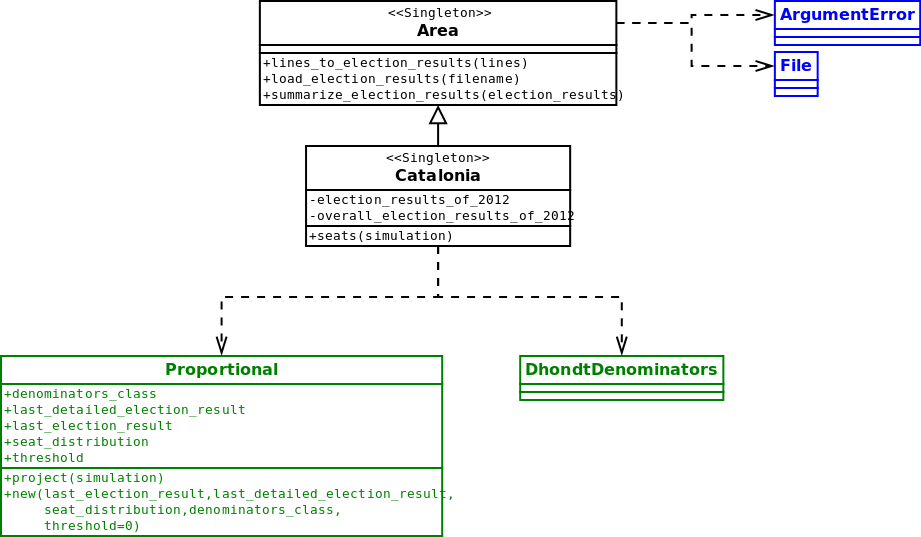
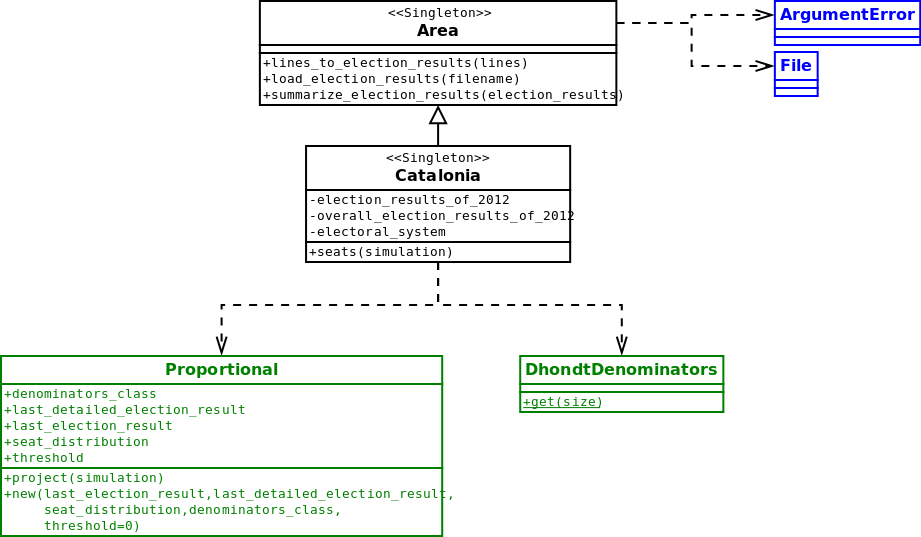
Added threshold to Proportional

Changed region(s): [[0.3344, 0.4171, 0.6384, 0.5065], [0.5472, 0.7449, 0.7904, 0.7747]]

diff --git a/spec/unit/proportional_spec.rb b/spec/unit/proportional_spec.rb
@@ -17,7 +17,7 @@
 # You can find a copy of the GNU General Public License in /doc/gpl.txt
 #
 
-SAMPLE_ELECTION_RESULT = { 'Red' => 91_811, 'Green' => 190_934 }
+SAMPLE_RGB_ELECTION_RESULT = { 'Red' => 120, 'Green' => 120, 'Blue' => 100 }
 
 SAMPLE_DETAILED_ELECTION_RESULT = { 'North' => { 'Red' => 50, 'Green' => 70
                                              },
@@ -26,16 +26,38 @@ SAMPLE_DETAILED_ELECTION_RESULT = { 'North' => { 'Red' => 50, 'Green' => 70
 
 SAMPLE_SEAT_DISTRIBUTION = { 'North' => 3, 'South' => 5 }
 
-PROPORTIONAL = Sapor::Proportional.new(SAMPLE_ELECTION_RESULT,
+THRESHOLD = 0.3
+
+PROPORTIONAL = Sapor::Proportional.new(SAMPLE_RGB_ELECTION_RESULT,
                                        SAMPLE_DETAILED_ELECTION_RESULT,
                                        SAMPLE_SEAT_DISTRIBUTION,
                                        Sapor::DhondtDenominators)
 
+PROPORTIONAL_WITH_THRESHOLD = Sapor::Proportional.new(SAMPLE_RGB_ELECTION_RESULT,
+                                                      SAMPLE_DETAILED_ELECTION_RESULT,
+                                                      SAMPLE_SEAT_DISTRIBUTION,
+                                                      Sapor::DhondtDenominators,
+                                                      THRESHOLD)
+
 describe Sapor::Proportional, '#project' do
+  # Seat distribution:
+  # North: Green 1 70, Red 1 50, Green 2 35, (Red 2 25)
+  # South: Blue 1 100, Red 1 70, Green 1 50, Blue 2 50, Red 2 35, (Blue 3 33)
   it 'projects same result as last result if fed with last election result' do
-    projection = PROPORTIONAL.project(SAMPLE_ELECTION_RESULT)
+    projection = PROPORTIONAL.project(SAMPLE_RGB_ELECTION_RESULT)
     expect(projection['Red']).to eq(3)
     expect(projection['Green']).to eq(3)
     expect(projection['Blue']).to eq(2)
+  end
+
+  # Seat distribution:
+  # North: Green 1 70, Red 1 50, Green 2 35 (Red 2 25, Green 3 23)
+  # South: Blue 1 100, Red 1 70, Blue 2 50, Red 2 35, Blue 3 33, (Blue 4 25,
+  #        Red 3 23, Green below threshold)
+  it 'excludes parties below the threshold' do
+    projection = PROPORTIONAL_WITH_THRESHOLD.project(SAMPLE_RGB_ELECTION_RESULT)
+    expect(projection['Red']).to eq(3)
+    expect(projection['Green']).to eq(2)
+    expect(projection['Blue']).to eq(3)
   end
 end

diff --git a/lib/sapor/proportional.rb b/lib/sapor/proportional.rb
@@ -23,11 +23,12 @@ module Sapor
   #
   class Proportional
     def initialize(last_election_result, last_detailed_election_result,
-                   seat_distribution, denominators_class)
+                   seat_distribution, denominators_class, threshold = 0)
       @last_election_result = last_election_result
       @last_detailed_election_result = last_detailed_election_result
       @seat_distribution = seat_distribution
       @denominators_class = denominators_class
+      @threshold = threshold
     end
 
     def project(simulation)
@@ -79,10 +80,13 @@ module Sapor
           new_local_result[choice] = votes
         end
       end
+      local_threshold = new_local_result.values.inject(:+).to_f * @threshold
       quotients = []
       new_local_result.each_pair do |choice, new_value|
-        @denominators_class.get(no_of_seats).each do |d|
-          quotients << [choice, new_value.to_f / d]
+        if new_value >= local_threshold
+          @denominators_class.get(no_of_seats).each do |d|
+            quotients << [choice, new_value.to_f / d]
+          end
         end
       end
       quotients.sort { |a, b| b.last <=> a.last }.map(&:first).slice(0, no_of_seats)

diff --git a/spec/unit/first_past_the_post_spec.rb b/spec/unit/first_past_the_post_spec.rb
@@ -17,19 +17,19 @@
 # You can find a copy of the GNU General Public License in /doc/gpl.txt
 #
 
-SAMPLE_ELECTION_RESULT = { 'Red' => 91_811, 'Green' => 190_934 }
+SAMPLE_RG_ELECTION_RESULT = { 'Red' => 91_811, 'Green' => 190_934 }
 
 SAMPLE_DETAILED_ELECTION_RESULT = { 'North' => { 'Red' => 50, 'Green' => 70
                                              },
                                     'South' => { 'Red' => 70, 'Green' => 50,
                                                  'Blue' => 100 } }
 
-FPTP = Sapor::FirstPastThePost.new(SAMPLE_ELECTION_RESULT,
+FPTP = Sapor::FirstPastThePost.new(SAMPLE_RG_ELECTION_RESULT,
                                    SAMPLE_DETAILED_ELECTION_RESULT)
 
 describe Sapor::FirstPastThePost, '#project' do
   it 'projects same result as last result if fed with last election result' do
-    projection = FPTP.project(SAMPLE_ELECTION_RESULT)
+    projection = FPTP.project(SAMPLE_RG_ELECTION_RESULT)
     expect(projection['Red']).to eq(0)
     expect(projection['Green']).to eq(1)
     expect(projection['Other']).to eq(1)

diff --git a/lib/sapor/regional_data/catalonia.rb b/lib/sapor/regional_data/catalonia.rb
@@ -46,12 +46,15 @@ module Sapor
     SEAT_DISTRIBUTION = { 'Barcelona' => 85, 'Girona' => 17, 'Lleida' => 15,
                           'Tarragona' => 18 }
 
+    THRESHOLD = 0.03
+
     def electoral_system
       if @electoral_system.nil?
         @electoral_system = Proportional.new(overall_election_results_of_2012,
                                              election_results_of_2012,
                                              SEAT_DISTRIBUTION,
-                                             DhondtDenominators)
+                                             DhondtDenominators,
+                                             THRESHOLD)
       end
       @electoral_system
     end
